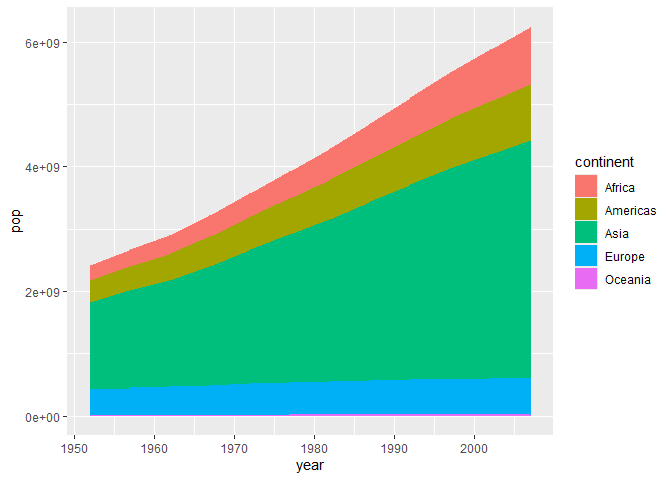
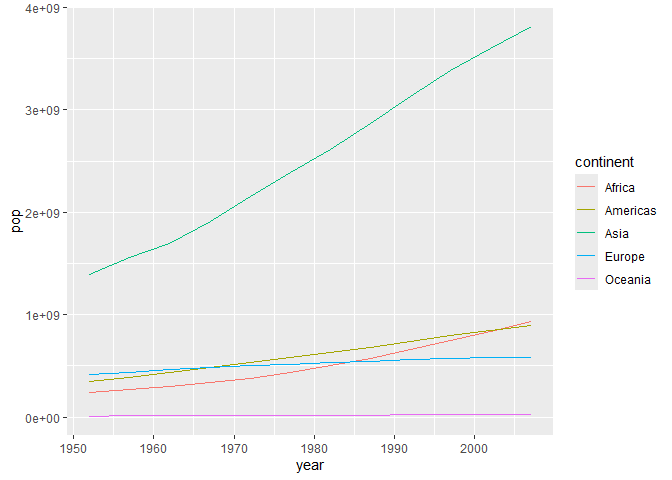
huhj

diff --git a/data-science-curriculum-build/challenges/c04-gapminder-assignment.md b/data-science-curriculum-build/challenges/c04-gapminder-assignment.md
@@ -297,10 +297,73 @@ gapminder %>%
     ## 10 Mexico        Americas   1952    50.8  30144317     3478.
     ## # ℹ 15 more rows
 
+``` r
+gapminder %>%
+  filter(year == year_min) %>%
+  filter(continent == "Africa") %>%
+  arrange(desc(gdpPercap))
+```
+
+    ## # A tibble: 52 × 6
+    ##    country      continent  year lifeExp      pop gdpPercap
+    ##    <fct>        <fct>     <int>   <dbl>    <int>     <dbl>
+    ##  1 South Africa Africa     1952    45.0 14264935     4725.
+    ##  2 Gabon        Africa     1952    37.0   420702     4293.
+    ##  3 Angola       Africa     1952    30.0  4232095     3521.
+    ##  4 Reunion      Africa     1952    52.7   257700     2719.
+    ##  5 Djibouti     Africa     1952    34.8    63149     2670.
+    ##  6 Algeria      Africa     1952    43.1  9279525     2449.
+    ##  7 Namibia      Africa     1952    41.7   485831     2424.
+    ##  8 Libya        Africa     1952    42.7  1019729     2388.
+    ##  9 Congo, Rep.  Africa     1952    42.1   854885     2126.
+    ## 10 Mauritius    Africa     1952    51.0   516556     1968.
+    ## # ℹ 42 more rows
+
+``` r
+gapminder %>%
+  filter(year == year_min) %>%
+  filter(continent == "Europe") %>%
+  arrange(desc(gdpPercap))
+```
+
+    ## # A tibble: 30 × 6
+    ##    country        continent  year lifeExp      pop gdpPercap
+    ##    <fct>          <fct>     <int>   <dbl>    <int>     <dbl>
+    ##  1 Switzerland    Europe     1952    69.6  4815000    14734.
+    ##  2 Norway         Europe     1952    72.7  3327728    10095.
+    ##  3 United Kingdom Europe     1952    69.2 50430000     9980.
+    ##  4 Denmark        Europe     1952    70.8  4334000     9692.
+    ##  5 Netherlands    Europe     1952    72.1 10381988     8942.
+    ##  6 Sweden         Europe     1952    71.9  7124673     8528.
+    ##  7 Belgium        Europe     1952    68    8730405     8343.
+    ##  8 Iceland        Europe     1952    72.5   147962     7268.
+    ##  9 Germany        Europe     1952    67.5 69145952     7144.
+    ## 10 France         Europe     1952    67.4 42459667     7030.
+    ## # ℹ 20 more rows
+
+``` r
+gapminder %>%
+  filter(year == year_min) %>%
+  filter(continent == "Oceania") %>%
+  arrange(desc(gdpPercap))
+```
+
+    ## # A tibble: 2 × 6
+    ##   country     continent  year lifeExp     pop gdpPercap
+    ##   <fct>       <fct>     <int>   <dbl>   <int>     <dbl>
+    ## 1 New Zealand Oceania    1952    69.4 1994794    10557.
+    ## 2 Australia   Oceania    1952    69.1 8691212    10040.
+
 **Observations**:
 
 - Identify the outlier countries from q2
   - Kuwait, United States, Canada
+  - Looking at the other continents, the other highest gdp’s are not as
+    intense outliers as those three because the difference between
+    Venezuela and Canada is 3,678 and the difference between Kuwait and
+    Bahrain is 98,515. In the other three continents the differences
+    between the highest 2 values and third highest are much smaller like
+    432 in Africa, 116 in Europe, and 517 in Oceania.
 
 *Hint*: For the next task, it’s helpful to know a ggplot trick we’ll
 learn in an upcoming exercise: You can use the `data` argument inside
@@ -416,6 +479,8 @@ gapminder %>%
 
 - There is a lot of zig-zagging between the medians of the continents
   that shows the amount of disparity in the medians.
+- Question: why is Oceania’s life expectancy so much higher than
+  everywhere else?
 
 ``` r
 ## TASK: Your second graph
@@ -444,13 +509,15 @@ gapminder %>%
   became very similar.
 - Africa’s life expectancy increased but there was still a large
   disparity between it and all of the other continents.
+- Question: why is Africa’s life expectancy so much lower than the other
+  four continents?
 
 ``` r
 gapminder %>%
   group_by(year, continent) %>%
   summarize(pop = sum(pop)) %>%
-  ggplot(aes(year, pop, fill = continent)) +
-  geom_area()
+  ggplot(aes(year, pop, color = continent)) +
+  geom_line()
 ```
 
     ## `summarise()` has regrouped the output.
@@ -473,6 +540,8 @@ gapminder %>%
   according to Wikipedia so it is super small compared to every other
   continent.
 
+- Question: Why is Oceania’s population barely changing at all?
+
 ``` r
 gapminder %>%
   group_by(year) %>%
@@ -491,6 +560,7 @@ countries over the years.
 
 - There is a large spike in 1972 after a decline and then a sharp fall
   off afterward.
+- Question: what caused the large spike in 1972?
 
 ``` r
 gapminder %>%
@@ -551,6 +621,8 @@ of all the countries over the years.
 
 - This is a smaller but still noticeable spike in 1977 which means there
   was a large disparity in ratio again.
+
+- Question: what are the two large spikes in 1977 and 1992?
 
 ``` r
 gapminder %>%
